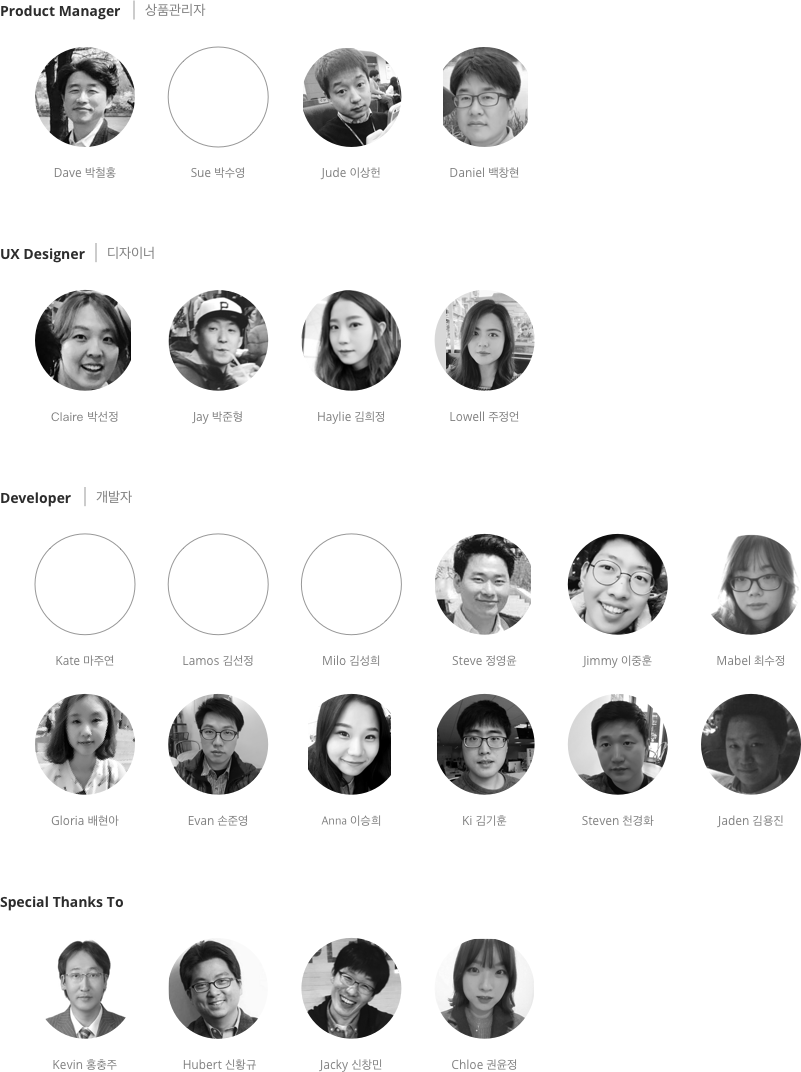
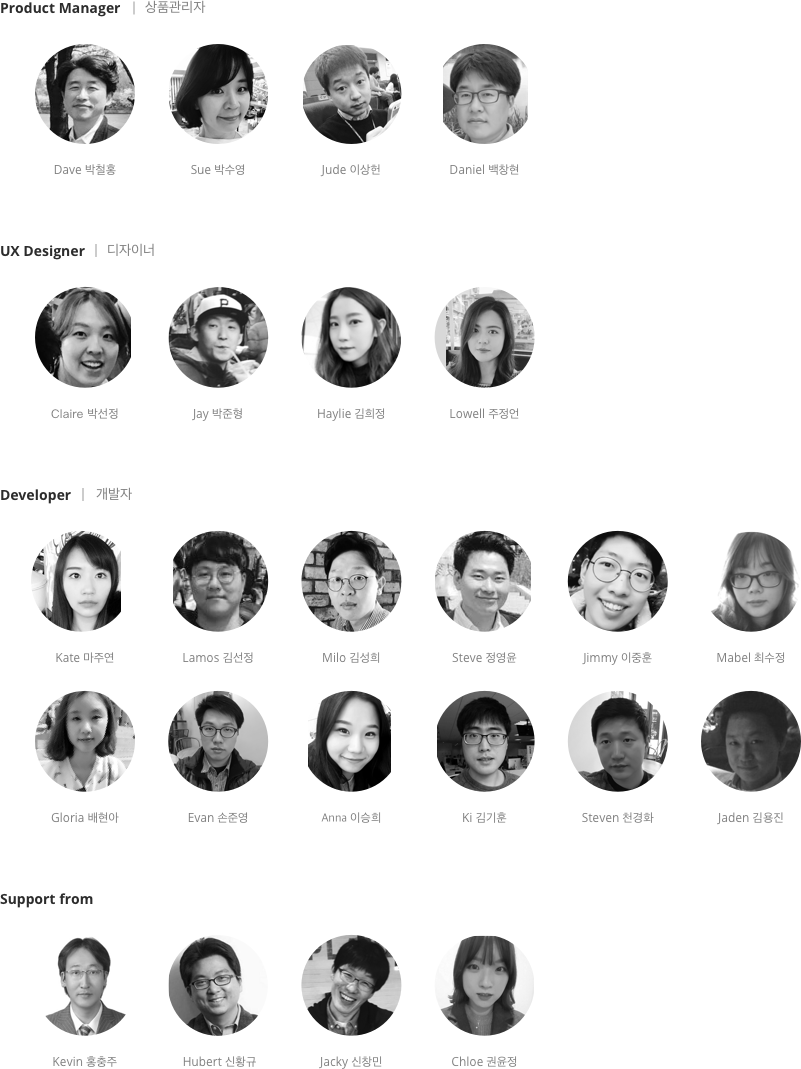
1.modify team image 2.remove scroll in moms diary box

diff --git a/public/css/style.css b/public/css/style.css
@@ -451,31 +451,38 @@ section.momsdiary div.diary{
     border-radius: 10px;
     background-color: #ffffff;
     border: solid 1px #d5d5d5;
-    padding: 40px;
+    padding-top: 32px;
+    padding-left: 40px;
+    padding-right: 40px;
 }
 
 section.momsdiary div.diary:nth-child(1) {
     height: 217.9px;
+    padding-bottom: 16px;
     margin-bottom: 54px;
 }
 
 section.momsdiary div.diary:nth-child(2) {
     height: 193.9px;
+    padding-bottom: 40px;
     margin-bottom: 40px;
 }
 
 section.momsdiary div.diary:nth-child(3) {
     height: 313.8px;
+    padding-bottom: 40px;
     margin-bottom: 40px;
 }
 
 section.momsdiary div.diary:nth-child(4) {
     height: 385.8px;
+    padding-bottom: 16px;
     margin-bottom: 44px;
 }
 
 section.momsdiary div.diary:nth-child(5) {
     height: 385.8px;
+    padding-bottom: 16px;
     margin-bottom: 54px;
 }
 
@@ -491,25 +498,23 @@ section.momsdiary div.diary pre {
 }
 
 section.momsdiary div.diary:nth-child(1) pre {
-    height: 142px;
+    height: 168px;
 }
 
 section.momsdiary div.diary:nth-child(2) pre {
-    height: 120px;
+    height: 122px;
 }
 
 section.momsdiary div.diary:nth-child(3) pre {
-    height: 233.8px;
+    height: 242px;
 }
 
 section.momsdiary div.diary:nth-child(4) pre {
-    height: 305.8px;
-    line-height:normal;
+    height: 338px;
 }
 
 section.momsdiary div.diary:nth-child(5) pre {
-    height: 305.8px;
-    line-height: 1.6;
+    height: 338px;
 }
 
 section.momsdiary div.diary pre span {
@@ -743,10 +748,6 @@ footer div.footer-bottom ul a {
     #language_dropdown_menu.open {
         display: block;
         visibility: hidden;
-    }
-
-    section.momsdiary div.diary {
-        padding: 28px;
     }
 
     .nav-tabs-area {

diff --git a/public/kr/body/use_case.html b/public/kr/body/use_case.html
@@ -68,18 +68,15 @@
 
                         정민이가 놀다가도 뭔가 먹고 싶으면 나에게 와서 내 핸드폰을 찾는다.
                         엔젤톡을 찾는 것이다.
-
                         음식 카테고리를 눌러주면 이리저리 찾다가 밥을 누른다.
                         저녁 먹은 후에도 과자가 아닌 “밥주세요”를 누른다.
                         정민이의 의사가 분명하다는 것은 주변 가족들이 모두 알 정도이다.
-                        형은 그동안 정민이가 과자좋아하는 줄 알고 과자만 준 것을 후회했다.
-                        나도 그렇다.
-
-                        정민이가 과자가 아닌 밥은 더 좋아하다니...
+                        형은 그동안 정민이가 과자좋아하는 줄 알고 과자만 준 것을 후회했다. 나도 그렇다.
+                        정민이가 과자가 아닌 밥을 더 좋아하다니...
                         그동안 얼마나 답답했을까
-                        그저 주는대로 먹었으니…
+                        그저 주는대로 먹었으니...
                         정민이가 정말 좋아한다.
-                        밤에 놀이동산 가고 싶다고 계속  누른다.
+                        밤에 놀이동산 가고 싶다고 계속 누른다.
                         정말 가고 싶은 걸까?
                     </pre>
                 </div>

diff --git a/public/en/body/use_case.html b/public/en/body/use_case.html
@@ -24,7 +24,7 @@
     <div class="container">
         <p class="center-block">MOM’S DIARY</p>
         <div class="row center-block">
-            <div class="col-sm-1 col-xs-1">
+            <div class="col-sm-1 col-xs-1" id="rectangle">
                 <img class="line" src="../img/img-line.png"/>
             </div>
             <div class="col-sm-11 col-xs-10">
@@ -58,7 +58,6 @@ I prepared the food listed in AngelTalk app and gave some when he touches the ca
 
                         Jungmin is trying to find my smartphone if he wants to eat something even when he is playing.
 It is sure he is looking for AngelTalk app.
-
 He swipes the cards back and forth and touches the ‘Rice’ card if he wants some.
 He keeps touching ‘Rice’ if he wants more even after dinner.
 
@@ -66,9 +65,9 @@ Now all family members know he clearly demands particular food, not any food.
 Jungmin’s brother regrets that he has kept giving snacks as guessing that Jungmin liked those, so do I. I’ve never thought of it.
 
 He likes it.
-
 This night he keeps touching ‘Amusement Park’ card.
-Is he truly wanna go there?</pre>
+Is he truly wanna go there?
+                    </pre>
                 </div>
                 <div class="diary">
                     <pre>
